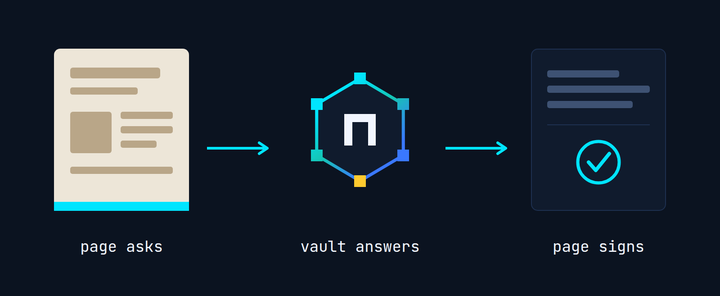
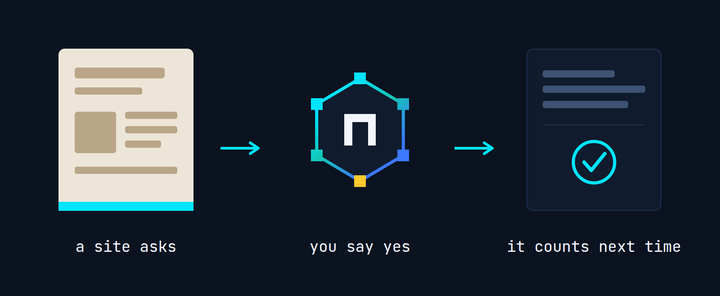
layer in everyday words: learn it once, it counts everywhere; plain pitch
Claude-Session: https://claude.ai/code/session_01AfeggrhBqzmN8guag9N5jj

diff --git a/apps/site/public/index.html b/apps/site/public/index.html
@@ -50,15 +50,15 @@
           <span class="hl-yellow">Your agent connects the two.</span>
         </p>
 
-        <p class="lp-lede">A site asks your vault what you already know, you say yes, and the site adapts. When you pass something, it signs a receipt that any other site can ask about.</p>
+        <p class="lp-lede">Learn something on one site, and the next one already knows. You decide what gets shared, every time.</p>
 
         <p class="lp-actions">
           <a class="n-btn n-btn--primary lp-btn" href="https://nema-vault.migarci2.dev/" data-app-link="vault">Open your vault</a>
           <a class="lp-link" href="/creators.html">Install it on your site</a>
         </p>
 
-        <!-- The whole protocol, in the three beats the story card draws:
-             the site card, the nema mark, the receipt. One line each. -->
+        <!-- The whole thing, in the three beats the story card draws:
+             the site card, the nema mark, the receipt. One plain line each. -->
         <ul class="lp-beats" aria-label="How nema works, in three beats">
           <li class="lp-beat">
             <span class="lp-beat__glyph lp-beat__glyph--paper" aria-hidden="true">
@@ -73,8 +73,8 @@
                 </g>
               </svg>
             </span>
-            <b class="lp-beat__name">Page asks</b>
-            <span class="lp-beat__text">A site says what it teaches, and what it needs to know first.</span>
+            <b class="lp-beat__name">A site asks</b>
+            <span class="lp-beat__text">It asks what you already know.</span>
           </li>
           <li class="lp-beat">
             <span class="lp-beat__glyph" aria-hidden="true">
@@ -92,15 +92,15 @@
                 <g fill="#F2F6FF" shape-rendering="crispEdges"><rect x="24" y="24" width="16" height="4"/><rect x="24" y="28" width="4" height="12"/><rect x="36" y="28" width="4" height="12"/></g>
               </svg>
             </span>
-            <b class="lp-beat__name">Vault answers</b>
-            <span class="lp-beat__text">You see the request, you say yes, and only that much leaves.</span>
+            <b class="lp-beat__name">You say yes</b>
+            <span class="lp-beat__text">Only what you approve leaves.</span>
           </li>
           <li class="lp-beat">
             <span class="lp-beat__glyph" aria-hidden="true">
               <svg viewBox="0 0 16 16" fill="none" stroke="currentColor" stroke-width="1.4" focusable="false"><path d="M2.5 2.5h11v11l-2-1.2-2 1.2-2-1.2-2 1.2-2-1.2z"/><path d="M5 6h6M5 9h4"/></svg>
             </span>
-            <b class="lp-beat__name">Page signs</b>
-            <span class="lp-beat__text">You do the work, and the page signs a receipt you keep.</span>
+            <b class="lp-beat__name">It counts next time</b>
+            <span class="lp-beat__text">What you did here counts on the next site.</span>
           </li>
         </ul>
       </div>

diff --git a/docs/assets/press/card-how-it-works.html b/docs/assets/press/card-how-it-works.html
@@ -4,10 +4,10 @@
 <link rel="stylesheet" href="card.css">
 <style>
   .row { display: flex; align-items: center; justify-content: center; }
-  .item { width: 340px; flex: none; text-align: center; }
+  .item { width: 400px; flex: none; text-align: center; }
   .art { height: 400px; display: flex; align-items: center; justify-content: center; }
   .item .lbl { margin-top: 36px; font-size: 34px; color: #F2F6FF; }
-  .arrow { width: 190px; flex: none; height: 400px; display: flex; align-items: center; justify-content: center; }
+  .arrow { width: 120px; flex: none; height: 400px; display: flex; align-items: center; justify-content: center; }
 </style>
 
 <div class="card">
@@ -29,13 +29,13 @@
           <rect x="0" y="340" width="300" height="20" fill="#00E5FF"/>
         </svg>
       </div>
-      <p class="lbl">page asks</p>
+      <p class="lbl">a site asks</p>
     </div>
 
     <div class="arrow">
-      <svg width="150" height="34" viewBox="0 0 150 34" fill="none">
-        <path d="M0 17 H128" stroke="#00E5FF" stroke-width="6"/>
-        <path d="M116 5 L134 17 L116 29" stroke="#00E5FF" stroke-width="6" stroke-linecap="round" stroke-linejoin="round"/>
+      <svg width="100" height="34" viewBox="0 0 100 34" fill="none">
+        <path d="M0 17 H78" stroke="#00E5FF" stroke-width="6"/>
+        <path d="M66 5 L84 17 L66 29" stroke="#00E5FF" stroke-width="6" stroke-linecap="round" stroke-linejoin="round"/>
       </svg>
     </div>
 
@@ -61,13 +61,13 @@
           </g>
         </svg>
       </div>
-      <p class="lbl">vault answers</p>
+      <p class="lbl">you say yes</p>
     </div>
 
     <div class="arrow">
-      <svg width="150" height="34" viewBox="0 0 150 34" fill="none">
-        <path d="M0 17 H128" stroke="#00E5FF" stroke-width="6"/>
-        <path d="M116 5 L134 17 L116 29" stroke="#00E5FF" stroke-width="6" stroke-linecap="round" stroke-linejoin="round"/>
+      <svg width="100" height="34" viewBox="0 0 100 34" fill="none">
+        <path d="M0 17 H78" stroke="#00E5FF" stroke-width="6"/>
+        <path d="M66 5 L84 17 L66 29" stroke="#00E5FF" stroke-width="6" stroke-linecap="round" stroke-linejoin="round"/>
       </svg>
     </div>
 
@@ -85,7 +85,7 @@
           <path d="M128 252 L144 270 L174 233" stroke="#00E5FF" stroke-width="8" fill="none" stroke-linecap="round" stroke-linejoin="round"/>
         </svg>
       </div>
-      <p class="lbl">page signs</p>
+      <p class="lbl">it counts next time</p>
     </div>
 
   </div>

diff --git a/apps/security/public/index.html b/apps/security/public/index.html
@@ -31,7 +31,7 @@
         <span>tools</span>
         <span class="n-tools__count" data-tools-count>0</span>
       </span>
-      <a class="lc-badge" href="https://nema.migarci2.dev" rel="noopener" title="This site can ask your nema vault what you already know, and sign what you do here. Nothing leaves your vault until you say yes.">
+      <a class="lc-badge" href="https://nema.migarci2.dev" rel="noopener" title="This site can ask what you already know, and remember what you do here. Nothing is shared until you say yes.">
         <span class="lc-badge__mark" data-nema-mark aria-hidden="true"></span>
         <span>Works with nema</span>
       </a>
@@ -78,7 +78,7 @@
         <ul class="reqs__list" data-hero-requirements></ul>
         <div class="reqs__body" data-prereq-body></div>
 
-        <p class="connect__say">This site can ask your nema vault what you already know, and sign what you do here. Nothing leaves your vault until you say yes.</p>
+        <p class="connect__say">This site can ask what you already know, and remember what you do here. Nothing is shared until you say yes.</p>
 
         <!-- The handshake, contract section 25. One button opens the learner's
              vault in a popup with these requirements, the learner approves
@@ -194,7 +194,7 @@
 
   <footer class="lc-foot" data-nema-footer>
     <span class="lc-foot__text">Line Cook Lab, an example course site.</span>
-    <a class="lc-badge" href="https://nema.migarci2.dev" rel="noopener" title="This site can ask your nema vault what you already know, and sign what you do here. Nothing leaves your vault until you say yes.">
+    <a class="lc-badge" href="https://nema.migarci2.dev" rel="noopener" title="This site can ask what you already know, and remember what you do here. Nothing is shared until you say yes.">
       <span class="lc-badge__mark" data-nema-mark aria-hidden="true"></span>
       <span>Works with nema</span>
     </a>

diff --git a/apps/harness/public/index.html b/apps/harness/public/index.html
@@ -29,7 +29,7 @@
         <span class="ss-tools__dot" aria-hidden="true"></span>
         <span><span data-tools-count>0</span> tools on this page</span>
       </span>
-      <a class="ss-badge" href="https://nema.migarci2.dev" rel="noopener" title="This site can ask your nema vault what you already know, and sign what you do here. Nothing leaves your vault until you say yes.">
+      <a class="ss-badge" href="https://nema.migarci2.dev" rel="noopener" title="This site can ask what you already know, and remember what you do here. Nothing is shared until you say yes.">
         <span class="ss-badge__mark" data-nema-mark aria-hidden="true"></span>
         Works with nema
       </a>
@@ -69,7 +69,7 @@
         <p class="lab-line" data-req-line></p>
         <div class="lab-reqs" data-requirements></div>
 
-        <p class="lab-line lab-say">This site can ask your nema vault what you already know, and sign what you do here. Nothing leaves your vault until you say yes.</p>
+        <p class="lab-line lab-say">This site can ask what you already know, and remember what you do here. Nothing is shared until you say yes.</p>
 
         <!-- The whole handshake in one button. It opens the learner's vault in
              a popup with this unit's requirements, the learner approves there,
@@ -198,7 +198,7 @@
 
   <footer class="ss-footer">
     <p class="ss-footer__line">Saucier School, an example course site.</p>
-    <a class="ss-badge" href="https://nema.migarci2.dev" rel="noopener" title="This site can ask your nema vault what you already know, and sign what you do here. Nothing leaves your vault until you say yes.">
+    <a class="ss-badge" href="https://nema.migarci2.dev" rel="noopener" title="This site can ask what you already know, and remember what you do here. Nothing is shared until you say yes.">
       <span class="ss-badge__mark" data-nema-mark aria-hidden="true"></span>
       Works with nema
     </a>

diff --git a/apps/site/public/judges.html b/apps/site/public/judges.html
@@ -41,17 +41,17 @@
       <h1 class="doc__title">Judge guide</h1>
 
       <div class="layer">
-        <p class="layer__head">Prove it once. Skip it everywhere.</p>
+        <p class="layer__head">Learn it once. It counts everywhere.</p>
         <p class="layer__say">
-          A site asks your vault what you already know, you say yes, and the site adapts. When you
-          pass something, it signs a receipt that any other site can ask about.
+          Learn something on one site, and the next one already knows. You decide what gets shared,
+          every time.
         </p>
         <figure class="layer__fig">
-          <img class="layer__img" src="/press/card-how-it-works.png" width="1600" height="657" alt="page asks, vault answers, page signs" loading="lazy" decoding="async">
+          <img class="layer__img" src="/press/card-how-it-works.png" width="1600" height="657" alt="a site asks, you say yes, it counts next time" loading="lazy" decoding="async">
         </figure>
         <p class="layer__say">
           <b>If you only have three minutes</b>, do <a href="#step1">step 1 of the golden path</a>. It is
-          the whole idea end to end: a course asks, your vault answers, 68 minutes become 27.
+          the whole idea end to end: a course asks, you say yes, 68 minutes become 27.
         </p>
       </div>
 

diff --git a/packages/nema-extension/sidepanel.js b/packages/nema-extension/sidepanel.js
@@ -62,8 +62,8 @@ const refs = {};
 onboard.innerHTML = `
   <h2 class="n-panel__label" id="p-ext-onboard">Start</h2>
   <div class="n-panel__body">
-    <p class="x-onboard__head">Prove it once. Skip it everywhere.</p>
-    <p class="x-onboard__lede">A site asks your vault what you already know, you say yes, and the site adapts. When you pass something, it signs a receipt that any other site can ask about. Learn anywhere you see the nema mark.</p>
+    <p class="x-onboard__head">Learn it once. It counts everywhere.</p>
+    <p class="x-onboard__lede">Learn something on one site, and the next one already knows. You decide what gets shared, every time. Learn anywhere you see the nema mark.</p>
     <div class="x-onboard__choices">
       <button class="n-btn n-btn--primary n-btn--sm" type="button" data-ext-onboard-demo>Load the demo learner</button>
       <button class="n-btn n-btn--secondary n-btn--sm" type="button" data-ext-onboard-import>Import a vault file</button>

diff --git a/apps/site/public/protocol.html b/apps/site/public/protocol.html
@@ -40,10 +40,10 @@
     <article class="doc doc--wide">
       <h1 class="doc__title">nema protocol 0.1</h1>
       <div class="layer">
-        <p class="layer__head">Prove it once. Skip it everywhere.</p>
+        <p class="layer__head">Learn it once. It counts everywhere.</p>
         <p class="layer__say">
-          A site asks your vault what you already know, you say yes, and the site adapts. When you
-          pass something, it signs a receipt that any other site can ask about.
+          Learn something on one site, and the next one already knows. You decide what gets shared,
+          every time.
           <a href="/">See the three beats on the hub</a>.
         </p>
       </div>

diff --git a/apps/site/public/creators.html b/apps/site/public/creators.html
@@ -40,10 +40,10 @@
     <article class="doc">
       <h1 class="doc__title">How to install nema</h1>
       <div class="layer">
-        <p class="layer__head">Prove it once. Skip it everywhere.</p>
+        <p class="layer__head">Learn it once. It counts everywhere.</p>
         <p class="layer__say">
-          A site asks your vault what you already know, you say yes, and the site adapts. When you
-          pass something, it signs a receipt that any other site can ask about.
+          Learn something on one site, and the next one already knows. You decide what gets shared,
+          every time.
           <a href="/">See the three beats on the hub</a>.
         </p>
       </div>

diff --git a/apps/site/public/philosophy.html b/apps/site/public/philosophy.html
@@ -40,10 +40,10 @@
     <article class="doc">
       <h1 class="doc__title">Philosophy</h1>
       <div class="layer">
-        <p class="layer__head">Prove it once. Skip it everywhere.</p>
+        <p class="layer__head">Learn it once. It counts everywhere.</p>
         <p class="layer__say">
-          A site asks your vault what you already know, you say yes, and the site adapts. When you
-          pass something, it signs a receipt that any other site can ask about.
+          Learn something on one site, and the next one already knows. You decide what gets shared,
+          every time.
           <a href="/">See the three beats on the hub</a>.
         </p>
       </div>

diff --git a/apps/site/public/nema-provider.js b/apps/site/public/nema-provider.js
@@ -1148,8 +1148,8 @@ function connectSection(app) {
       class: 'nema-embed-lede',
       'data-nema-connect-lede': '',
       text:
-        'This site can ask your nema vault what you already know, and sign what you do here. ' +
-        'Nothing leaves your vault until you say yes.'
+        'This site can ask what you already know, and remember what you do here. ' +
+        'Nothing is shared until you say yes.'
     })
   );
   const connected = Boolean(app.assertion);

diff --git a/shared/provider-embed.js b/shared/provider-embed.js
@@ -1148,8 +1148,8 @@ function connectSection(app) {
       class: 'nema-embed-lede',
       'data-nema-connect-lede': '',
       text:
-        'This site can ask your nema vault what you already know, and sign what you do here. ' +
-        'Nothing leaves your vault until you say yes.'
+        'This site can ask what you already know, and remember what you do here. ' +
+        'Nothing is shared until you say yes.'
     })
   );
   const connected = Boolean(app.assertion);

diff --git a/apps/aesgcm/public/compare.html b/apps/aesgcm/public/compare.html
@@ -50,7 +50,7 @@
 
   <h1 id="headline">Same article.</h1>
   <p class="lede">
-    <b>Prove it once. Skip it everywhere.</b>
+    <b>Learn it once. It counts everywhere.</b>
     On the left, an article as it was published. On the right, the same bytes with nema added:
     a manifest, one script tag, five question anchors and an attribution line. The reader keeps a
     signed note of what they understood, and any other site can ask about it. The two frames scroll
